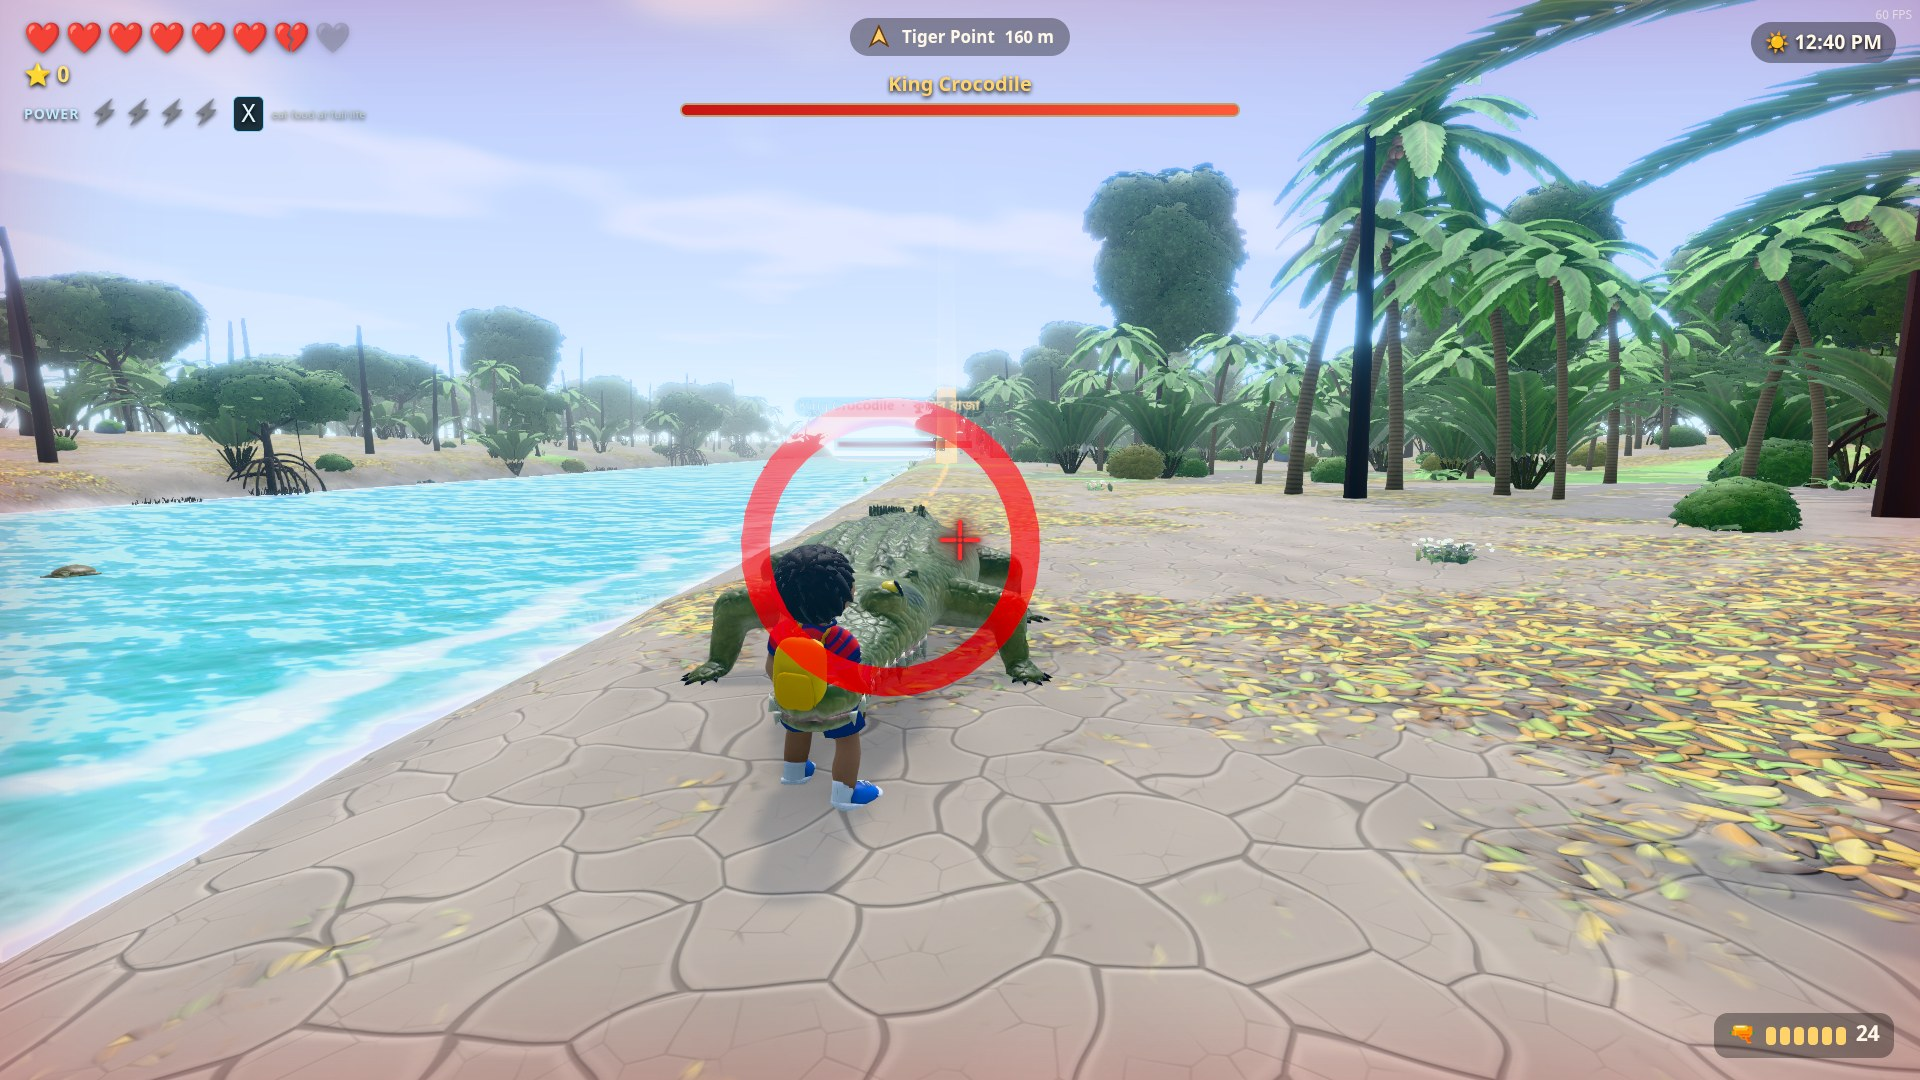
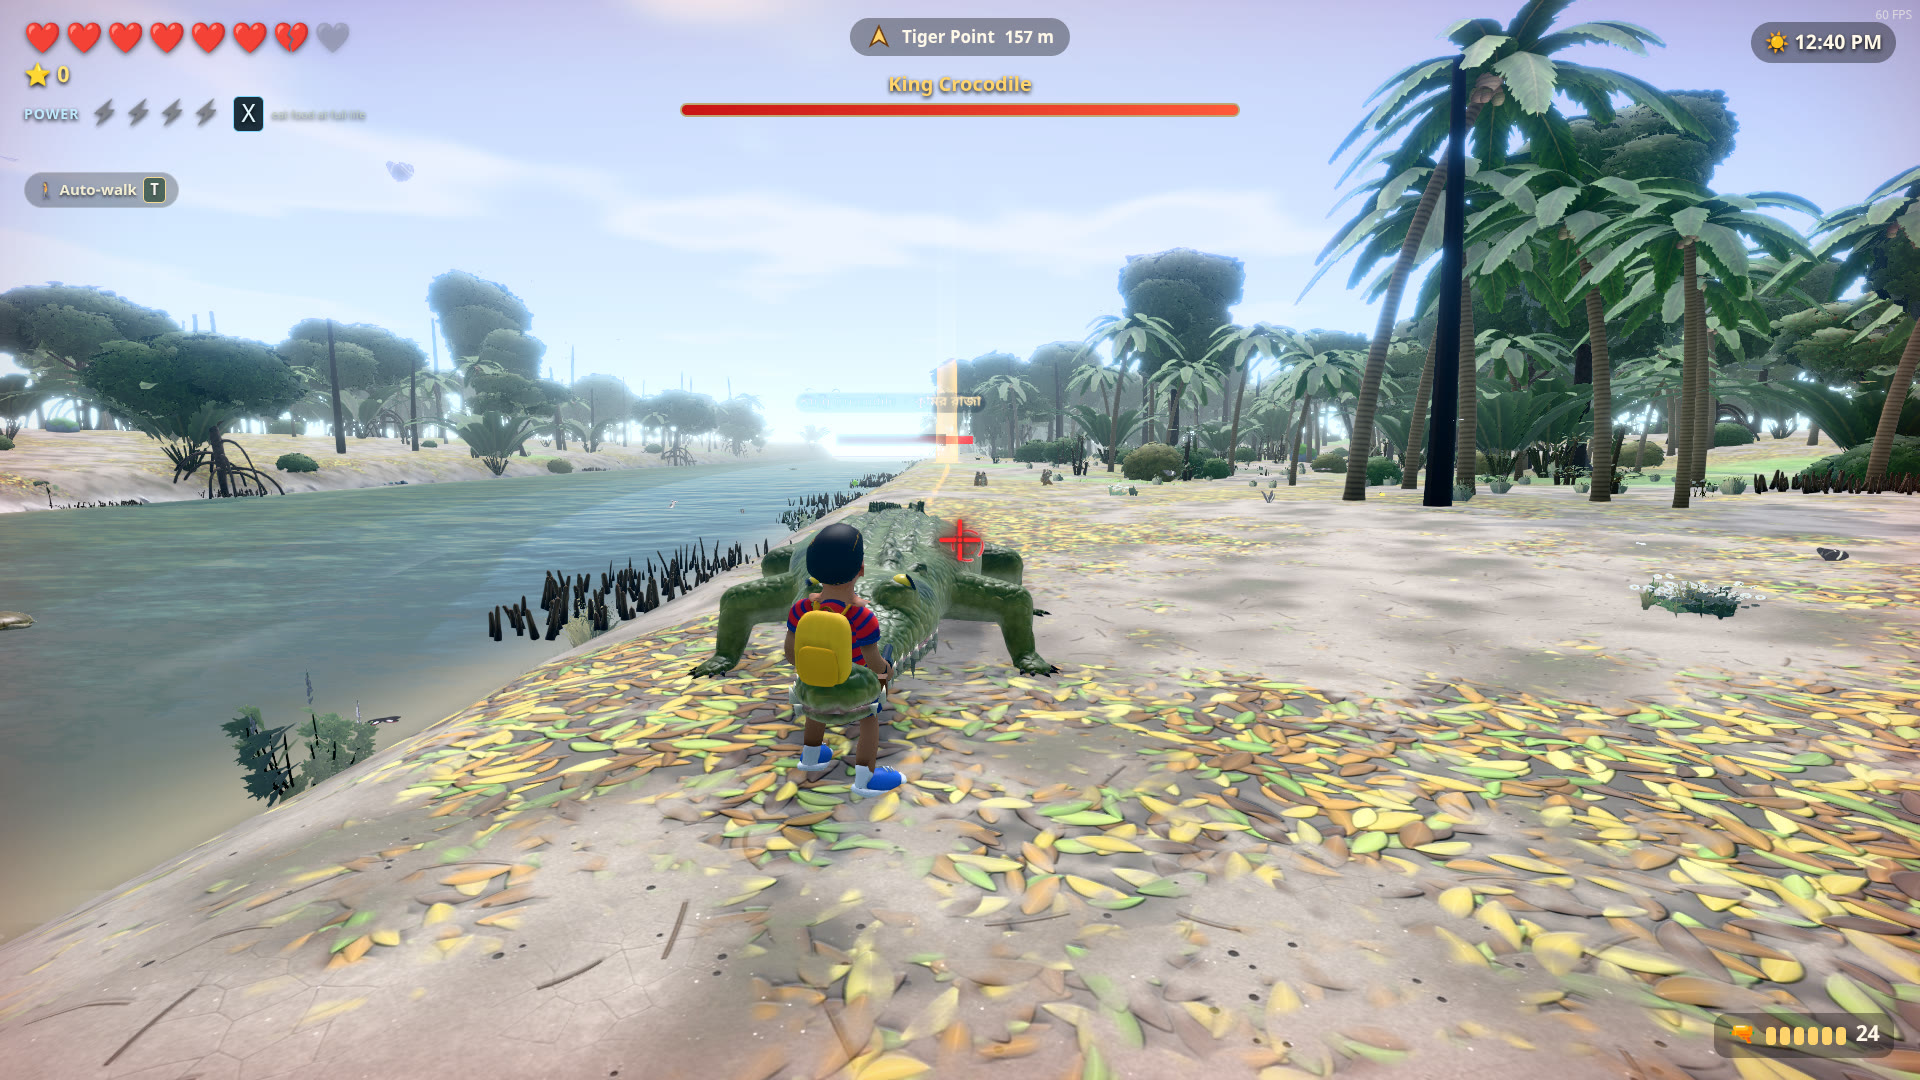
0.4.0 Watchtower: download buttons, what's new, new screenshots

diff --git a/README.md b/README.md
@@ -4,19 +4,19 @@
 
 **A 3D cartoon adventure in the Sundarbans.** Published by **[Abacus IT](https://abacusitbd.com)**, Dhaka, Bangladesh.
 
-## ⬇ Download (version 0.3.1, free) — real faces, runs on every PC and phone
+## ⬇ Download (version 0.4.0, free) — the watchtower, a living Sundarbans, runs on every PC and phone
 
-[![Download for Windows](https://img.shields.io/badge/Download-Windows%2010%2F11%20(.exe%2C%20187%20MB)-0078D6?style=for-the-badge&logo=windows&logoColor=white)](https://github.com/riadul/jungle-hero-sajid-download/releases/download/v0.3.1/JungleHeroSajid-Setup-0.3.1-x64.exe)
+[![Download for Windows](https://img.shields.io/badge/Download-Windows%2010%2F11%20(.exe%2C%20192%20MB)-0078D6?style=for-the-badge&logo=windows&logoColor=white)](https://github.com/riadul/jungle-hero-sajid-download/releases/download/v0.4.0/JungleHeroSajid-Setup-0.4.0-x64.exe)
 
-[![Download for Android](https://img.shields.io/badge/Download-Android%20phone%20(.apk%2C%20109%20MB)-3DDC84?style=for-the-badge&logo=android&logoColor=white)](https://github.com/riadul/jungle-hero-sajid-download/releases/download/v0.3.2/JungleHeroSajid-0.3.2-android.apk)
+[![Download for Android](https://img.shields.io/badge/Download-Android%20phone%20(.apk%2C%20125%20MB)-3DDC84?style=for-the-badge&logo=android&logoColor=white)](https://github.com/riadul/jungle-hero-sajid-download/releases/download/v0.4.0/JungleHeroSajid-0.4.0-android.apk)
 
 [![Play on iPhone or in the browser](https://img.shields.io/badge/Play-iPhone%20%2F%20iPad%20%2F%20browser%20(free)-000000?style=for-the-badge&logo=apple&logoColor=white)](https://riadul.github.io/jungle-hero-sajid-download/)
 
 [![Get it from the Snap Store](https://img.shields.io/badge/Snap%20Store-Ubuntu%20%2F%20Linux-82BEA0?style=for-the-badge&logo=snapcraft&logoColor=white)](https://snapcraft.io/jungle-hero-sajid)
-[![Download AppImage](https://img.shields.io/badge/Download-Linux%20AppImage%20(228%20MB)-E95420?style=for-the-badge&logo=linux&logoColor=white)](https://github.com/riadul/jungle-hero-sajid-download/releases/download/v0.3.1/JungleHeroSajid-0.3.1-linux-x86_64.AppImage)
-[![Download .deb](https://img.shields.io/badge/Download-Ubuntu%2FDebian%20.deb%20(160%20MB)-A81D33?style=for-the-badge&logo=debian&logoColor=white)](https://github.com/riadul/jungle-hero-sajid-download/releases/download/v0.3.1/jungle-hero-sajid_0.3.1_amd64.deb)
+[![Download AppImage](https://img.shields.io/badge/Download-Linux%20AppImage%20(244%20MB)-E95420?style=for-the-badge&logo=linux&logoColor=white)](https://github.com/riadul/jungle-hero-sajid-download/releases/download/v0.4.0/JungleHeroSajid-0.4.0-linux-x86_64.AppImage)
+[![Download .deb](https://img.shields.io/badge/Download-Ubuntu%2FDebian%20.deb%20(170%20MB)-A81D33?style=for-the-badge&logo=debian&logoColor=white)](https://github.com/riadul/jungle-hero-sajid-download/releases/download/v0.4.0/jungle-hero-sajid_0.4.0_amd64.deb)
 
-**Windows:** open the downloaded `JungleHeroSajid-Setup-0.3.1-x64.exe` and follow
+**Windows:** open the downloaded `JungleHeroSajid-Setup-0.4.0-x64.exe` and follow
 the installer. If Windows shows *"Windows protected your PC"*, click
 **More info → Run anyway** (the installer isn't code-signed yet).
 
@@ -31,7 +31,7 @@ newer (iOS 16+). Progress is saved on the phone. The same link also works in any
 browser on a PC, Mac, tablet or Android phone.
 
 **Android:** on the phone, tap the green button above to download
-`JungleHeroSajid-0.3.2-android.apk`, then open it. If Android says apps from
+`JungleHeroSajid-0.4.0-android.apk`, then open it. If Android says apps from
 this source aren't allowed, tap **Settings** and turn on **Allow from this
 source** for your browser (or Files app), then go back and tap **Install**. If
 Play Protect warns about an unknown app, tap **More details → Install anyway**
@@ -87,9 +87,14 @@ Graphics adjust to your PC by themselves (Settings → Graphics → **Auto**): a
 gaming PC gets High or Ultra, a laptop with built-in graphics gets the bright
 **Cartoon Lite** look.
 
-**What's new:** on phones, a 🚶 auto-walk button on the right (the joystick hides while Sajid walks by himself; 0.3.2). Sajid and Baba have realistic faces (0.3.1). Also since 0.3.0: Cartoon Lite graphics for weak PCs and phones; Auto
-graphics that fit your device; a How to play screen on PC; optional auto-walk
-(press T) and camera assist; faster plants and shadows.
+**What's new in 0.4.0:** a more real, living Sundarbans — new plants and real
+swaying grass, silty rivers and tidal mud, monkeys, birds, butterflies, crabs and
+a river dolphin. In the last level Sajid climbs Hiron Point's watchtower and
+signals Baba's ship before the Great Tiger comes. New jumps and air attacks, a
+right-click over-the-shoulder aim zoom on PC, a brighter cartoon look for weak
+PCs and phones, modern menus, heavier punch sounds, and your name in the score
+table when you quit. Since 0.3: Cartoon Lite graphics, Auto graphics that fit
+your device, auto-walk (press T, or 🚶 on phones), realistic faces.
 
 ## 📱 Phone needed
 
@@ -108,6 +113,7 @@ to the phone by themselves (Settings → Graphics → Auto).
 ![Dead eye power](screenshots/06-dead-eye-power.jpg)
 ![The Great Tiger](screenshots/07-the-great-tiger.jpg)
 ![Nilkamal meadows](screenshots/08-nilkamal-meadows.jpg)
+![Signalling Baba's ship from the watchtower](screenshots/09-watchtower-signal.jpg)
 
 ## Controls
 
